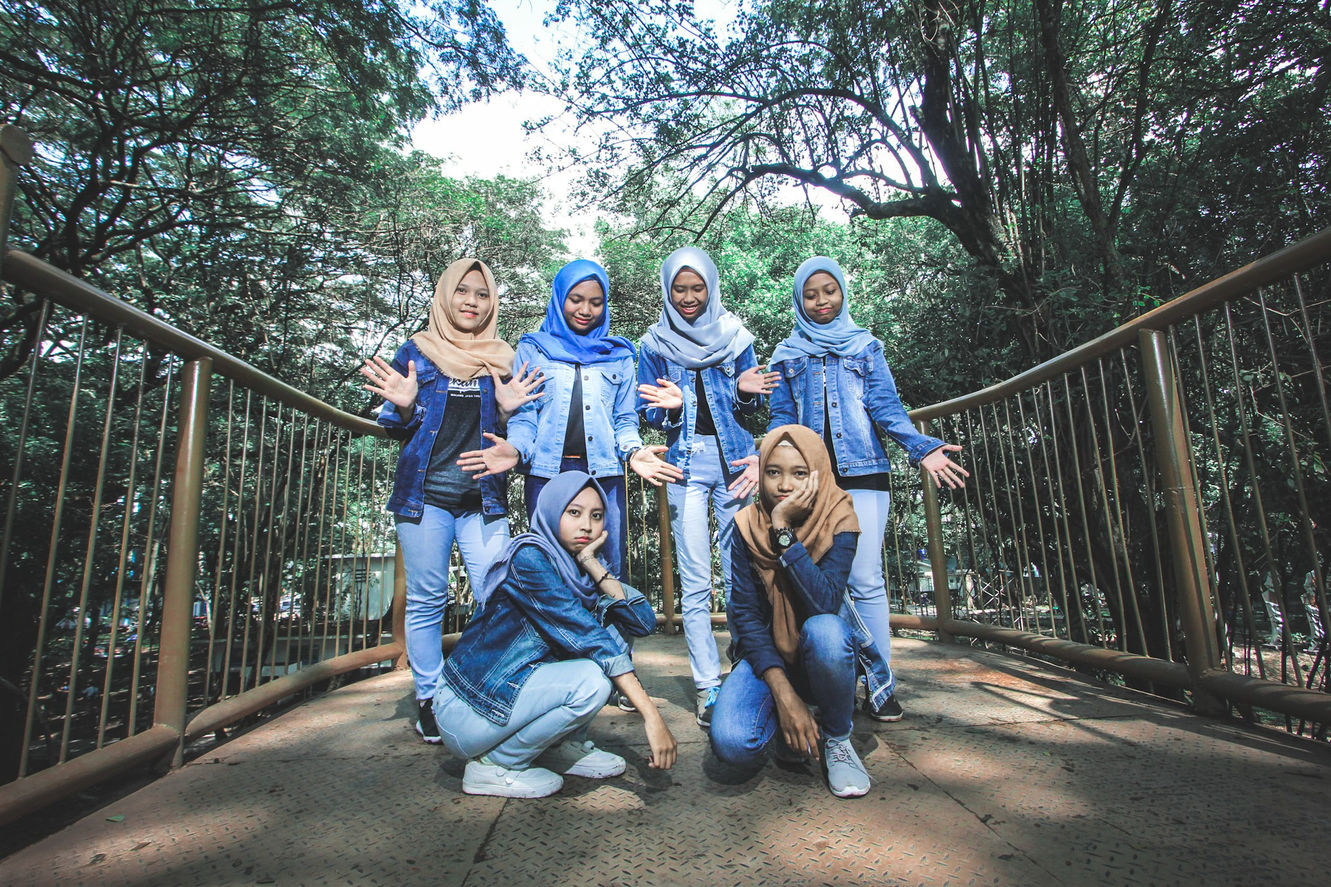
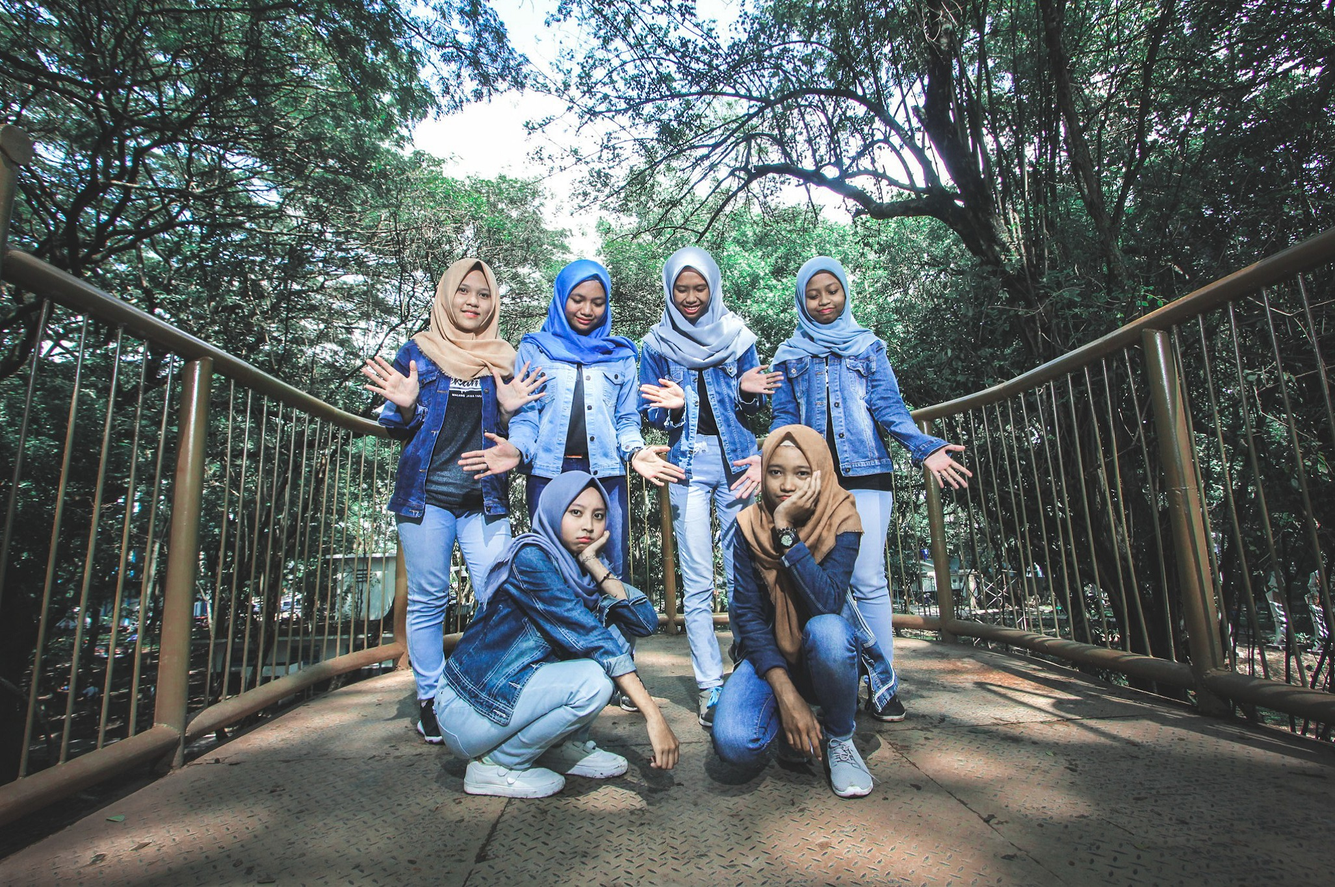
perubahan ke 2 pada index dan gambar

diff --git a/index.html b/index.html
@@ -130,10 +130,10 @@
         </div>
       </div>
       <div class="carousel-item">
-        <img src="(2).jpg" class="d-block w-100" alt="">
+        <img src="(3).jpg" class="d-block w-100" alt="">
         <div class="carousel-caption d-none d-md-block">
-          <h5>Wisuda</h5>
-          <p>Foto bisa di luar atau di dalam ruangan.</p>
+          <h5>Photo Album</h5>
+          <p>Bisa pilih tempat sesukamu.</p>
         </div>
       </div>
       <div class="carousel-item">
